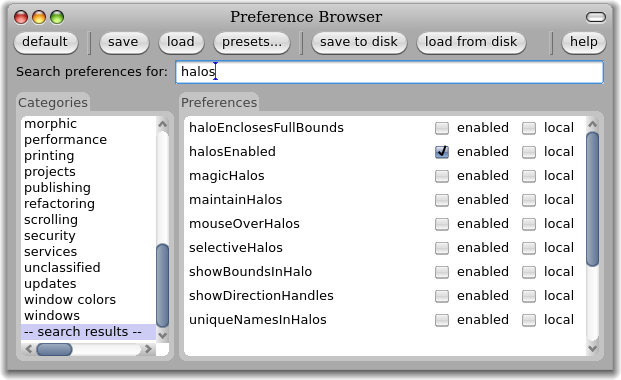
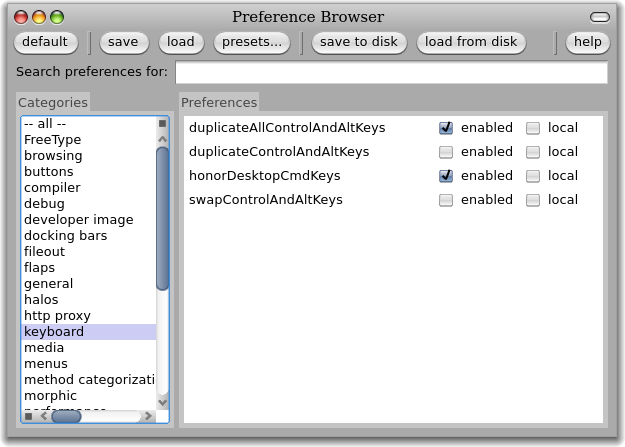
Various fixes from Stef -- patched halo instructions; Added FAQ on switching browser; Added screenshot for name prompter (replaces initials);
git-svn-id: https://www.iam.unibe.ch/scg/svn_repos/SqueakByExample/PharoBook@28555 54883e8d-cf1d-0410-83d6-f114b9419f37

Changed region(s): [[0.0, 0.0, 0.9791, 0.9553]]

diff --git a/QuickTour/QuickTour.tex b/QuickTour/QuickTour.tex
@@ -46,8 +46,6 @@
 \chapter{A quick tour of \pharo}
 \chalabel{quick}
 
-%:===> Check sizes of all images for Lulu version!
-
 In this chapter we will give you a high-level tour of \pharo to help you get comfortable with the environment.
 There will be plenty of opportunities to try things out, so it would be a good idea if you have a computer handy when you read this chapter.
 
@@ -158,33 +156,38 @@ Since many users will use various modifiers keys (\emph{control}, \emph{ALT}, \e
 \item [\actclick:] this is the next most used button; it is used to bring up a contextual menu, that is, a menu that offers different sets of actions depending on where the mouse is pointing; see \figref{threeButtons:actclick}. If you do not have a multi-button mouse, then normally you will configure the \emph{control} modifier key to \actclick with the mouse button.
 \item [\metaclick:] Finally, you may \metaclick on any object displayed in the image to activate the ``morphic \subind{Morphic}{halo}'', an array of handles that are used to perform operations on the on-screen objects themselves, such as rotating them or resizing them; see \figref{threeButtons:metaclick}.\footnote{Note that the morphic handles are usually inactive in \pharo, but you can turn them on using the Preferences Browser, which we will see shortly.}
 If you let the mouse linger over a handle, a help balloon will explain its function.
-Typically you will use a third modifier key, such as \emph{command} or \emph{meta} to \metaclick.
+In \pharo, you can \metaclick by holding {\sc shift} \emph{ctrl} or {\sc shift} \emph{alt} while clicking.
+% Typically you will use a third modifier key, such as \emph{command} or \emph{meta} to \metaclick.
 \end{description}
-
-%:===> Fix instructions for Halos/Preference Browser (shift key? -- or PB removed entirely?)
 
 \dothis{Type \ct{Time now} in the workspace.
 Now \actclick in the workspace.
 Select \menu{print it}.}
 
-Now we will activate \metaclick{ing}.
+%Now we will activate \metaclick{ing}.
 
-\dothis{Open the preference browser (\menu{System {\ldots\go} Preferences {\ldots\go} Preference Browser\ldots}) and find the \menu{halosEnabled} option using the search box.}
+%\dothis{Open the preference browser (\menu{System {\ldots\go} Preferences {\ldots\go} Preference Browser\ldots}) and find the \menu{halosEnabled} option using the search box.}
+
+%\begin{figure}[htb]
+%\centerline{\includegraphics[width=\textwidth]{PreferenceBrowser}}
+%\caption{The Preference Browser.\figlabel{prefBrowser}}
+%\end{figure}
+
+%\dothis{Now you should be able to \metaclick on the workspace. (See \figref{threeButtons:metaclick}.)
+%Grab the blue \raisebox{-0.4ex}{\includegraphics[width=1em]{morphicRotate}} handle near the bottom left corner and drag it to rotate the workspace.}
+
+We recommend that right-handed people configure their mouse to \click with the left button, \actclick with the right button, and \metaclick with the  clickable scroll wheel, if one is available.  If you don't have a clickable scroll wheel, then you can get the Morphic halo by holding down the \ct{alt} or \ct{option} key while \click{ing}.  If you are using a Macintosh without a second mouse button, you can simulate one by holding down the \clover{} key while \click{ing} the mouse.  However, if you are going to be using \pharo at all often, we recommend investing in a mouse with at least two buttons.
+
+You can configure your mouse to work the way you want by using the preferences of your operating system and mouse driver.
+\pharo has some preferences for customising the mouse and the meta keys on your keyboard.
+In the preference browser (\menu{System {\ldots\go} Preferences {\ldots\go} Preference Browser\ldots}), the \menu{keyboard} category contains an option \menu{swapControlAndAltKeys} that switches the \actclick and \metaclick functions.
+There are also options to duplicate the various command keys.   
 
 \begin{figure}[htb]
 \centerline{\includegraphics[width=\textwidth]{PreferenceBrowser}}
 \caption{The Preference Browser.\figlabel{prefBrowser}}
 \end{figure}
 
-\dothis{Now you should be able to \metaclick on the workspace. (See \figref{threeButtons:metaclick}.)
-Grab the blue \raisebox{-0.4ex}{\includegraphics[width=1em]{morphicRotate}} handle near the bottom left corner and drag it to rotate the workspace.}
-
-We recommend that right-handed people configure their mouse to \click with the left button, \actclick with the right button, and \metaclick with the  clickable scroll wheel, if one is available.  If you don't have a clickable scroll wheel, then you can get the Morphic halo by holding down the \ct{alt} or \ct{option} key while \click{ing}.  If you are using a Macintosh without a second mouse button, you can simulate one by holding down the \clover{} key while \click{ing} the mouse.  However, if you are going to be using \pharo at all often, we recommend investing in a mouse with at least two buttons.
-
-You can configure your mouse to work the way you want by using the preferences of your operating system and mouse driver.
-\pharo has some preferences for customising the mouse and the meta keys on your keyboard.
-In the preference browser, the \menu{keyboard} category contains an option \menu{swapMouseButtons} that switches the \actclick and \metaclick functions.
-There are also options to duplicate the various command keys.   
 
 %=================================================================
 \section{The World menu}
@@ -394,8 +397,7 @@ In this book we will simply use the term ``browser'', or, in case of ambiguity, 
 As we shall see, there are several interesting browsers available for \pharo, but this is the basic one you will find in any image.
 \seeindex{class browser}{browser}
 
-%:===> Change World menu item for browser?
-\dothis{Open a browser by selecting \menu{World \go Class browser}.}
+\dothis{Open a browser by selecting \menu{World \go Class browser}.\footnote{If the browser you get does not look like the one shown in \figref{classBrowser}, then you may need to change the default browser.  See \faqref{packagebrowser}.}}
 
 \begin{figure}[htb]
 \ifluluelse
@@ -569,7 +571,7 @@ So select \menu{accept (s)} by \actclick{ing} in the bottom pane, or just type \
 \index{keyboard shortcut!accept}
 \seeindex{accept it}{keyboard shortcut, accept}
 
-If this is the first time you have accepted any code in your image, you will likely be prompted to enter your initials. Since many people have contributed code to the image, it is important to keep track of everyone who creates or modifies methods. Simply enter an unambiguous identifier, such as your first initial and last name, or first and last names separated by a dot.
+If this is the first time you have accepted any code in your image, you will likely be prompted to enter your name. Since many people have contributed code to the image, it is important to keep track of everyone who creates or modifies methods. Simply enter your first and last names, without any spaces, or separated by a dot.
 
 %\begin{figure}[hbt]
 %\centerline {\includegraphics[width=0.35\textwidth]{initials}}
@@ -583,8 +585,8 @@ This can be quite useful if you have merely made a typing mistake, but in this c
 
 \begin{figure}[htb]
 \begin{minipage}[b]{0.48\textwidth}
-\centerline {\includegraphics[width=0.8\textwidth]{initials}}
-\caption{Entering your initials.\figlabel{initials}}
+\centerline {\includegraphics[width=0.9\textwidth]{name}}
+\caption{Entering your name.\figlabel{name}}
 \end{minipage}
 \hfill
 \begin{minipage}[b]{0.48\textwidth}

diff --git a/Collections/Collections.tex b/Collections/Collections.tex
@@ -46,9 +46,9 @@
 
 The collection classes form a loosely-defined group of general-purpose subclasses of \clsindmain{Collection} and \clsind{Stream}. The group of classes that appears in the ``\ind{Blue Book}''~\cite{Gold83a} contains 17 subclasses of \ct{Collection} and 9 subclasses of \ct{Stream}, for a total of 28 classes, and had already been redesigned several times before the \st-80 system was released. This group of classes is often considered to be a paradigmatic example of object-oriented design.
 
-In \pharo, the abstract class \ct{Collection} has 101 subclasses, and the abstract class \ct{Stream} has 54 subclasses, but many of these (like \mbox{\clsind{Bitmap},} \clsind{FileStream} and \clsind{CompiledMethod}) are special-purpose classes crafted for use in other parts of the system or in applications, and hence not categorized as ``Collections'' by the system organization. For the purposes of this chapter, we use the term ``Collection Hierarchy'' to mean \ct{Collection} and its 47 subclasses that are \emph{also} in the categories labelled \scat{Collections-*}.
-We use the term ``Stream Hierarchy'' to mean \ct{Stream} and its 10 subclasses that are \emph{also} in the \scatind{Collections-Streams} categories.
-These 57 classes respond to 794 messages and define a total of 1549 methods!
+In \pharo, the abstract class \ct{Collection} has 100 subclasses, and the abstract class \ct{Stream} has 50 subclasses, but many of these (like \mbox{\clsind{Bitmap},} \clsind{FileStream} and \clsind{CompiledMethod}) are special-purpose classes crafted for use in other parts of the system or in applications, and hence not categorized as ``Collections'' by the system organization. For the purposes of this chapter, we use the term ``Collection Hierarchy'' to mean \ct{Collection} and its 47 subclasses that are \emph{also} in the categories labelled \scat{Collections-*}.
+We use the term ``Stream Hierarchy'' to mean \ct{Stream} and its 9 subclasses that are \emph{also} in the \scatind{Collections-Streams} categories.
+These 56 classes respond to 976 messages and define a total of 1600 methods!
 
 % See test case in PBE-Collections for statistics
 

diff --git a/FAQ/FAQ.tex b/FAQ/FAQ.tex
@@ -80,13 +80,17 @@ String streamContents: [:str | str nextPutAll: 'hello' asSet] --> 'hleo'
 %=================================================================
 \section{Browsing the system}
 
-% See \faqref{omnibrowser}
+% See \faqref{packagebrowser}
 
-%\begin{faq}\label{faq:omnibrowser}
-%The browser does not look like the one described in the book. What gives?
-%\end{faq}
-%\answer
-%You are probably using an image in which the \ind{OmniBrowser} is installed as the default browser.  You can change the default by clicking on the little menu icon in the top-left corner of the browser window, between the ``\textsf{X}'' and the browser label, and selecting ``Choose new default browser'' from the menu that appears. Select \ct{#Browser} to get the plain old browser.
+\begin{faq}\faqlabel{packagebrowser}
+The browser does not look like the one described in the book. What gives?
+\end{faq}
+\answer
+You are probably using an image in which a different version of the \ind{OmniBrowser} is installed as the default browser.  In this book we assume that the OmniBrowser \emph{Package Browser} is installed as the default.  You can change the default by clicking on the menu bar of the browser.
+
+%:===> CHECK/FIX instructions for switching default browser
+
+%  You can change the default by clicking on the little menu icon in the top-left corner of the browser window, between the ``\textsf{X}'' and the browser label, and selecting ``Choose new default browser'' from the menu that appears. Select \ct{#Browser} to get the plain old browser.
 
 \begin{faq}
 How do I search for a class?

diff --git a/FirstApp/FirstApp.tex b/FirstApp/FirstApp.tex
@@ -43,9 +43,6 @@
 \chapter{A first application}
 \chalabel{firstApp}
 
-
-%:===> Check usage of "category" vs "package"
-
 In this chapter, we will develop a simple game: \ind{Lights Out}.\footnote{\url{http://en.wikipedia.org/wiki/Lights_Out_(game)}}
 Along the way we will demonstrate most of the tools that \pharo programmers use to construct and debug their programs, and show how programs are exchanged with other developers. We will see the browser, the object inspector, the debugger and the \ind{Monticello} \ind{package} browser. 
 Development in Smalltalk is efficient: you will find that you spend far more time actually writing code and far less managing the development process. 
@@ -83,7 +80,7 @@ Now we will see how to create packages, categories and classes.
 \index{package!creating}
 
 \dothis{Open a browser and \actclick in the package pane.
-Select \menu{create package}.}
+Select \menu{create package}.\footnote{We are assuming that the Package Browser is installed as the default browser, which should normally be the case. If the browser you get does not look like the one shown in \figref{AddPackage}, then you may need to change the default browser.  See \faqref{packagebrowser}.}}
 
 \begin{figure}[htb]
 \begin{minipage}[b]{0.48\textwidth}

diff --git a/Environment/Environment.tex b/Environment/Environment.tex
@@ -98,7 +98,7 @@ The \menu{Debugger} has an obvious role, but you will discover that it has a mor
 
 Many different class browsers have been developed over the years for \st.
 \pharo simplifies this story by offering a single browser that integrates various views.
-\figref{SystemBrowser0} shows the browser as it appears when you first open it.
+\figref{SystemBrowser0} shows the browser as it appears when you first open it.\footnote{Recall that if the browser you get does not look like the one shown in \figref{classBrowser}, then you may need to change the default browser.  See \faqref{packagebrowser}.}
 
 \begin{figure}[htbp]
    \centering

diff --git a/common.tex b/common.tex
@@ -182,6 +182,7 @@
 \newcommand{\scrlabel}[1]{\label{scr:#1}}
 \newcommand{\mthlabel}[1]{\label{mth:#1}}
 \newcommand{\clslabel}[1]{\label{cls:#1}}
+\newcommand{\faqlabel}[1]{\label{faq:#1}}
 %=============================================================
 %:Menu item macro
 % for menu items, so we can change our minds on how to print them! (apb)
